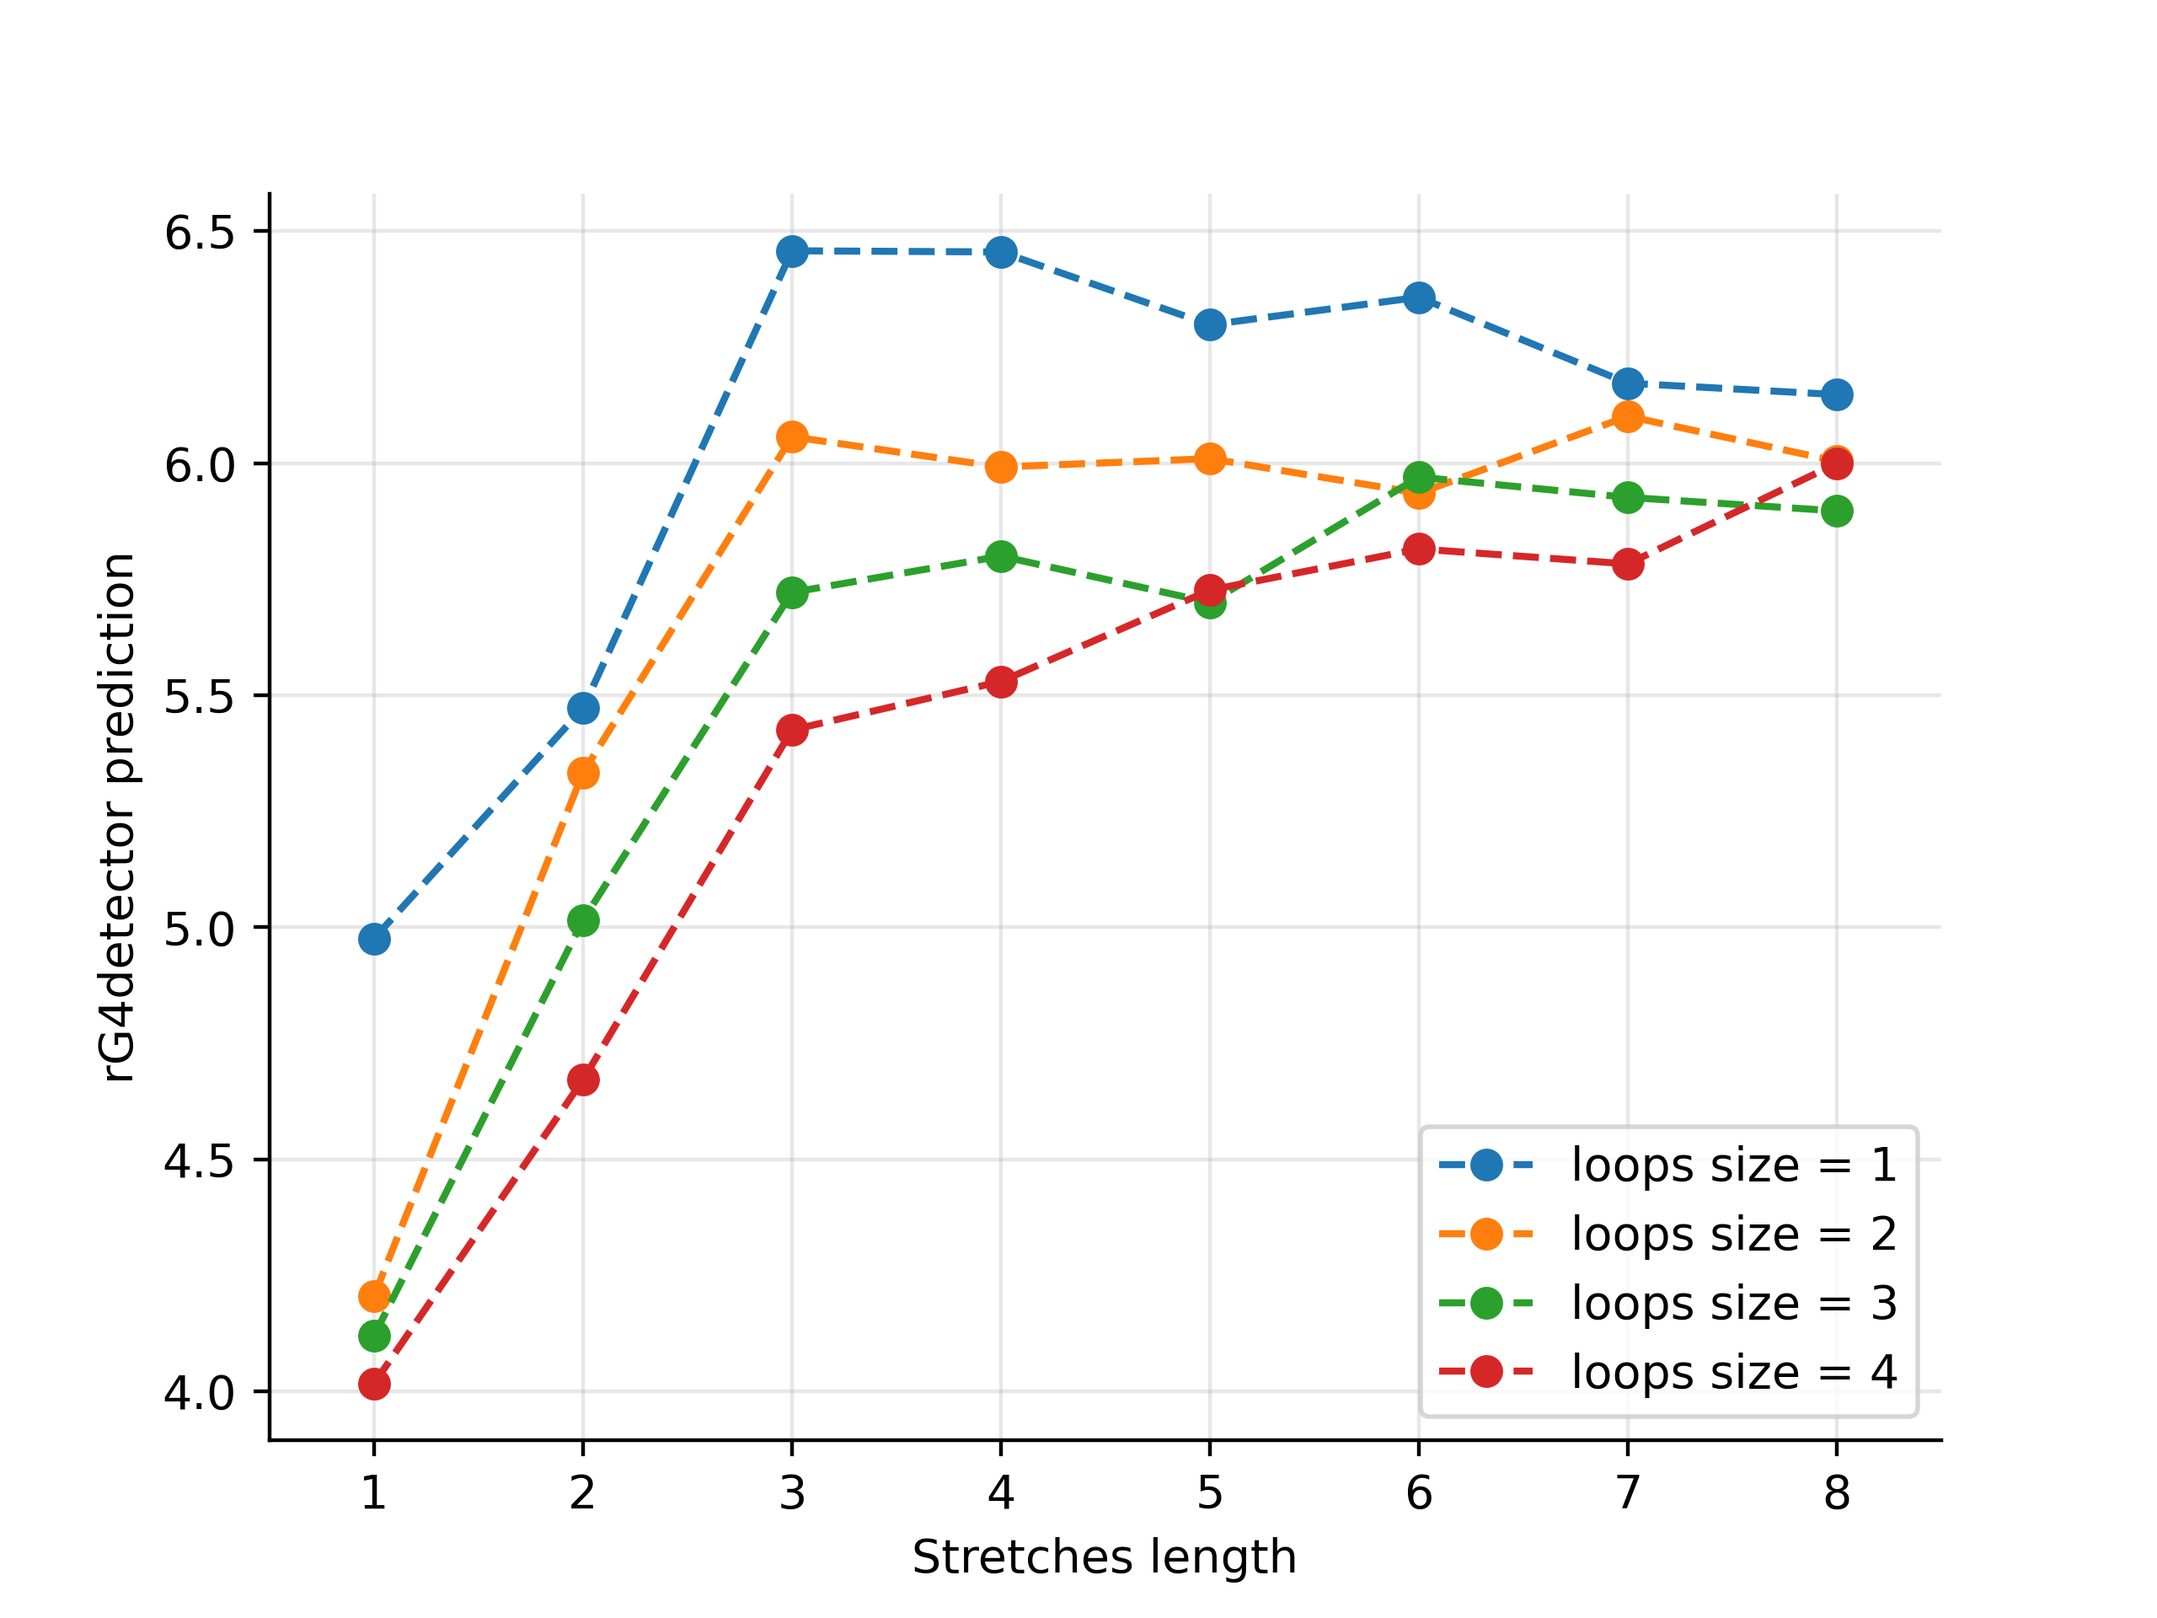
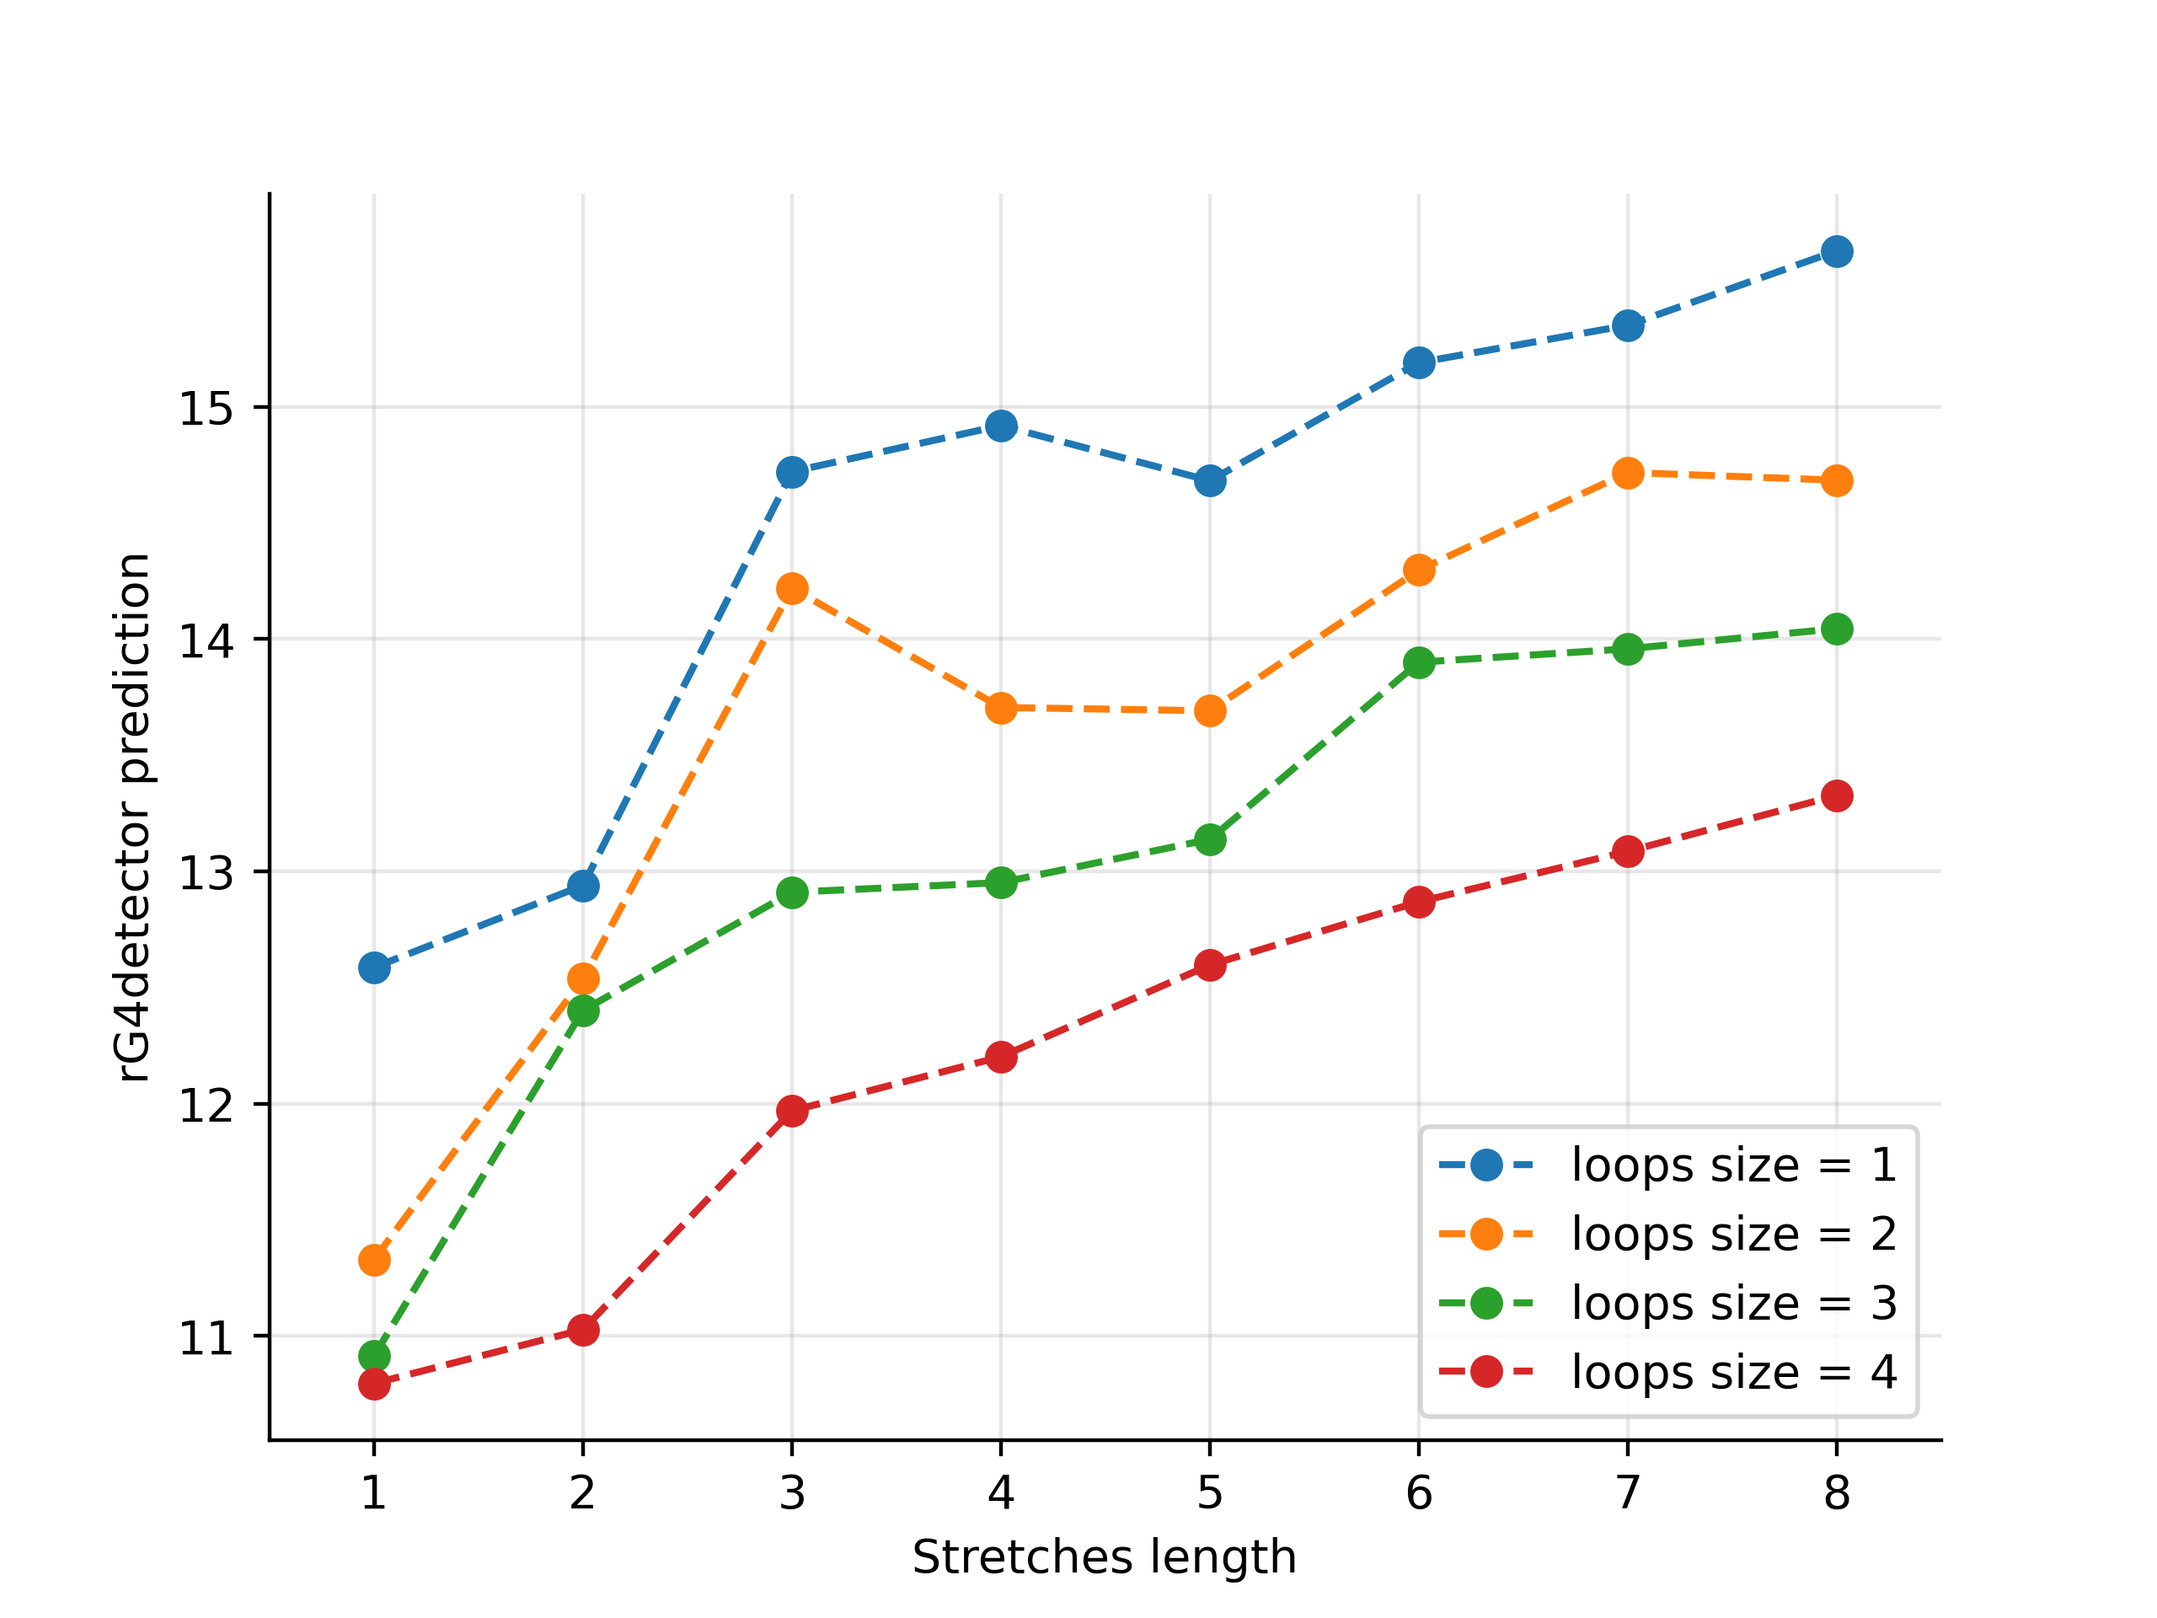
...

diff --git a/code/set_g4rna_data.py b/code/set_g4rna_data.py
@@ -1,14 +1,14 @@
 import pandas as pd
 import re
-from Bio import pairwise2, SeqIO, Seq
+from Bio import pairwise2, SeqIO
 import os
 from PARAMETERS import *
 import sys
 from time import time
 
-
-GAP3 = (DATA_SIZE - 30)//2
-GAP5 = DATA_SIZE - GAP3 - 11
+min_g4_size = len("GGNGGNGGNGG")
+GAP3 = DATA_SIZE - min_g4_size
+GAP5 = DATA_SIZE - min_g4_size
 MATCH_THRESHOLD = 0.85
 
 
@@ -17,27 +17,18 @@ def set_hg38_locations(data, data_loc, ref_gen):
     no_hit_counter = 0
     hit_counter = 0
     ignore_list = []
-    t = time()
     align = 0
-    search = 0
-    # ref_gen = "../../rg4detector_dev/big_files/chr1.fa"
-    data_df = pd.read_csv(data, delimiter="\t").dropna()
+    data_df = pd.read_csv(data).dropna()
     genome_dict = SeqIO.to_dict(SeqIO.parse(ref_gen, "fasta"))
     for idx, row in data_df.iterrows():
-        if (idx+1) % 50 == 0:
-            print(f"Done {idx+1}/{len(data_df)}, {round(time()-t)} seconds")
-            t = time()
         start = int(row["Start"]) - extra
         end = int(row["Length"]) + int(row["Start"]) + extra
         chrom = row["Chromosome"]
         seq = row["Sequence"].upper().replace("U", "T")
-        # if chrom != "chr1":
-        #     continue
         rg4_seq_range = genome_dict[chrom].seq[start:end]
 
         if row["Strand"] == "-":
             rg4_seq_range = rg4_seq_range.reverse_complement()
-
 
         seq_match = re.search(seq, str(rg4_seq_range))
         if seq_match:
@@ -55,7 +46,6 @@ def set_hg38_locations(data, data_loc, ref_gen):
         no_hit_counter += 1
         ignore_list.append(idx)
 
-    print(f"search={search}, align={align}")
     print(f"HIT = {hit_counter}")
     print(f"NO-HIT = {no_hit_counter}")
     data_df.drop(ignore_list, inplace=True)
@@ -100,7 +90,7 @@ def get_chrom_data(chrom_data):
 
 
 def filter_data(input_file, csv_dest):
-    data = pd.read_csv(input_file)#, delimiter="\t")
+    data = pd.read_csv(input_file)
     chrom_list = []
     for i in range(1, 23):
         chrom_list.append(f'chr{i}')
@@ -138,65 +128,21 @@ def csv2bed(csv_path, bed_dest, gap3=GAP3, gap5=GAP5):
     bed_file.close()
 
 
-def find_g4rna_seq(raw_csv_path, seq_dest, csv_dest):
-    no_hit_counter = 0
-    hit_counter = 0
-    ignore_list = []
-    seq_file = open(seq_dest + ".txt")
-    seq_list = [s.upper() for s in seq_file.read().splitlines()]
-    g4rna_df = pd.read_csv(raw_csv_path)
-    g4rna_list = g4rna_df["sequence"].to_list()
-    for idx, (seq, g4rna_seq) in enumerate(zip(seq_list, g4rna_list)):
-        seq_match = re.search(g4rna_seq, seq)
-        if seq_match is None:
-            alignments = pairwise2.align.localms(g4rna_seq, seq, 1, -.8, -.8, -.8)
-            if len(alignments) > 0 and alignments[0].score / len(g4rna_seq) > MATCH_THRESHOLD:
-                hit_counter += 1
-            else:
-                no_hit_counter += 1
-                ignore_list.append(idx)
-        else:
-            hit_counter += 1
-
-
-    print(f"HIT = {hit_counter}")
-    print(f"NO-HIT = {no_hit_counter}")
-    g4rna_df.drop(ignore_list, inplace=True)
-    g4rna_df.to_csv(csv_dest, index=False)
-
-
 def main(g4rna_dir, ref_gen):
     source = g4rna_dir + "/data.csv"
     data_loc = g4rna_dir + "/data_loc.csv"
-    raw_csv_dest = g4rna_dir + "/g4rna_filtered_data_raw.csv"
-    csv_dest = g4rna_dir + "/g4rna_filtered_data.csv"
-    raw_bed_dest = g4rna_dir + "/bed_raw_data.bed"
-    bed_dest = g4rna_dir + "/bed_raw_data.bed"
-    bed_dest_no_gap = g4rna_dir + "/bed_raw_data_no_gap.bed"
-    seq_dest = g4rna_dir + "/seq"
-    seq_dest_no_gap = g4rna_dir + "/seq_no_gap"
-    raw_seq_dest = g4rna_dir + "/raw_seq"
+    csv_dest = g4rna_dir + "/g4rna_data.csv"
+    bed_dest = g4rna_dir + "/data.bed"
+    seq_dest = g4rna_dir + "/g4rna_seq"
     bedtools_script_path = g4rna_dir + "/bed2seq.sh"
 
     # set correct locations
-    # set_hg38_locations(source, data_loc, ref_gen)
+    set_hg38_locations(source, data_loc, ref_gen)
     # filter overlapping sequences
     filter_data(data_loc, csv_dest)
     csv2bed(csv_dest, bed_dest)
-    # crete raw sequences files
+    # create  sequences files
     os.system(f"bash {bedtools_script_path} {ref_gen} {bed_dest} {seq_dest}")
-    csv2bed(csv_dest, bed_dest, gap3=0, gap5=0)
-    os.system(f"bash {bedtools_script_path} {ref_gen} {bed_dest_no_gap} {seq_dest_no_gap}")
-
-    # take only sequences that match the genome coordinate
-    # find_g4rna_seq(raw_csv_dest, raw_seq_dest, csv_dest)
-    # # crate update bed file
-    # csv2bed(csv_dest, bed_dest)
-    # # crate update bed file no gaps
-    # csv2bed(csv_dest, bed_dest_no_gap, gap3=0, gap5=0)
-    # # crete sequences files
-    # os.system(f"bash {bedtools_script_path} {ref_gen} {bed_dest} {seq_dest}")
-    # os.system(f"bash {bedtools_script_path} {ref_gen} {bed_dest_no_gap} {seq_dest_no_gap}")
 
 
 if __name__ == "__main__":

diff --git a/code/G4RNA_classification.py b/code/G4RNA_classification.py
@@ -1,70 +1,63 @@
 import sys
 import time
 from tensorflow.keras.models import load_model
-from utils import AUC_Score, one_hot_enc, plot_auc_curve, pred_all_sub_seq
+from utils import *
 import pandas as pd
-import numpy as np
 from sklearn.metrics import roc_curve, auc
 from PARAMETERS import *
 
-
+w = 80
 def get_g4rna_data(g4rna_dir):
-    g4rna_data = pd.read_csv(g4rna_dir + "/data_2_fil.csv")
+    g4rna_data = pd.read_csv(g4rna_dir + "/g4rna_data.csv")
     print(f"Data size = {len(g4rna_data)}")
     # get x
-    # data_file = open(g4rna_dir + "/seq.txt")
-    data = ["N"*44 + d.upper().replace("U", "T") + "N"*25 for d in g4rna_data["Sequence"]]
-    # data = [d.upper() for d in data_file.read().splitlines()]
-    x = np.array(list(map(one_hot_enc, data)), dtype=object)
-    # get y
-    # y = pd.read_csv(g4rna_dir + "/g4rna_filtered_data.csv", usecols=["label"])
-    y = g4rna_data["G4"]
-    return x, y
+    data_file = open(g4rna_dir + "/g4rna_seq.txt")
+    data = [d.upper() for d in data_file.read().splitlines()]
+    y = g4rna_data["label"]
+    return data, y
 
 
 def main(model, g4rna_dir):
     t1 = time.time()
-    prediction = {"rG4detector": [], "G4NN": [], "cGcC": [], "G4H": []}
+    prediction = {'cGcC': [], 'G4H': [], 'G4NN': []}
     scores = {}
 
     # get data
     x, y = get_g4rna_data(g4rna_dir)
 
     # pred rg4detector
-    for one_hot_mat in x:
-        prediction["rG4detector"].append(max(pred_all_sub_seq(one_hot_mat, model)))
+    prediction["rG4detector"] = make_all_seqs_prediction(model=model, seqs=x, max_pred=True)
 
     # pred screener
-    screener_df = pd.read_csv(g4rna_dir + "/screener_preds.80", delimiter="\t")
+    screener_df = pd.read_csv(g4rna_dir + f"screener_preds.{w}", delimiter="\t")
     seqs_ids = screener_df["description"].unique()
     for seq_id in seqs_ids:
         seq_preds = screener_df[screener_df["description"] == seq_id]
-        for method in ["G4NN", "cGcC", "G4H"]:
+        for method in METHODS_LIST:
             prediction[method].append(seq_preds[method].max())
 
     for method in prediction.keys():
         fpr, tpr, _ = roc_curve(y, prediction[method])
-
         roc_auc = auc(fpr, tpr)
         print(f"{method} roc_auc = {roc_auc}")
         scores[method] = AUC_Score(method=method, y=tpr, x=fpr, auc=round(roc_auc, 2))
 
 
     # # TODO - remove
-    # if PLOT:
-    #     plot_auc_curve(scores, title="G4RNA prediction", dest=g4rna_dir + "/g4rna_roc_plot", plot=True)
-    # print(f"Execution time = {round((time.time()-t1))} seconds")
-    #
-    # # save data
-    # for m in scores:
-    #     with open(g4rna_dir + f"/results/{m}_g4rna_roc.csv", "w") as f:
-    #         f.write(f"True positive rate,False positive rate\n")
-    #         for tpr, fpr in zip(scores[m].y, scores[m].x):
-    #             f.write(f"{tpr},{fpr}\n")
-    # with open(g4rna_dir + f"/results/G4RNA_AUC.csv", "w") as f:
-    #     f.write(f",G4RNA AUC score\n")
-    #     for m in scores:
-    #         f.write(f"{m},{scores[m].auc}\n")
+    if PLOT:
+        plot_auc_curve(scores, title="G4RNA prediction", dest=g4rna_dir + "/g4rna_roc_plot", plot=True)
+    print(f"Execution time = {round((time.time()-t1))} seconds")
+
+    # save data
+    for m in scores:
+        with open(g4rna_dir + f"/results/{w}/{m}_g4rna_roc.csv", "w") as f:
+            f.write(f"True positive rate,False positive rate\n")
+            for tpr, fpr in zip(scores[m].y, scores[m].x):
+                f.write(f"{tpr},{fpr}\n")
+    with open(g4rna_dir + f"/results/G4RNA_AUC.csv", "w") as f:
+        f.write(f",G4RNA AUC score\n")
+        for m in scores:
+            f.write(f"{m},{scores[m].auc}\n")
 
 
 if __name__ == "__main__":

diff --git a/code/calculate_correlation.py b/code/calculate_correlation.py
@@ -22,11 +22,11 @@ def get_rG4detector_human_corr(model, data_path):
     sp_corr = spearmanr(preds, yTest)[0]
     print(f"rG4detector Spearman correlation = {sp_corr}")
     # # TODO
-    # plt.scatter(yTest, preds, 9)
-    # plt.xlabel("Measured RSR ratio")
-    # plt.ylabel("Predicted RSR ratio")
-    # plt.savefig("Human_predictions_scatter_plot")
-    # plt.show()
+    plt.scatter(yTest, preds, 9)
+    plt.xlabel("Measured RSR ratio")
+    plt.ylabel("Predicted RSR ratio")
+    plt.savefig("Human_predictions_scatter_plot")
+    plt.show()
     return corr
 
 
@@ -43,6 +43,8 @@ def get_rG4detector_mouse_corr(model, mouse_df):
     pred = pred.reshape(len(pred))
     log_rsr = np.log(mouse_df["label"])
     corr = pearsonr(pred, log_rsr)
+    sp_corr = spearmanr(pred, log_rsr)[0]
+    print(f"rG4detector Spearman correlation = {sp_corr}")
     return round(corr[0], 3)
 
 
@@ -86,7 +88,7 @@ def calculate_mouse_correlation(model, data_path, screener_preds):
         screener_preds = SCREENER_PATH + "/output_data/mouse_test_predictions.csv"
     mouse_df = pd.read_csv(data_path + "mouse_data.csv", names=["sequence", "label"], header=None, delimiter="\t")
 
-    scores = get_screener_scores(screener_preds=screener_preds, y=np.log(mouse_df["label"]))
+    scores = get_screener_scores(screener_preds=screener_preds, y=np.log(mouse_df["label"].to_numpy()))
     scores["rG4detector"] = get_rG4detector_mouse_corr(model, mouse_df)
     for m in scores.keys():
         print(f"{m} Pearson correlation = {round(scores[m],3)}")
@@ -110,7 +112,7 @@ if __name__ == "__main__":
         rG4detector.append(load_model(f"{args.model_path}/model_{i}.h5"))
 
     calculate_human_correlation(rG4detector, args.data_dir_path + "/human/", args.screener_preds)
-    # calculate_mouse_correlation(rG4detector, args.data_dir_path + "/mouse/", args.screener_preds)
+    calculate_mouse_correlation(rG4detector, args.data_dir_path + "/mouse/", args.screener_preds)
 
 
 

diff --git a/code/detection.py b/code/detection.py
@@ -71,20 +71,20 @@ def detect_rg4(model, rg4_seeker_hits, gencode_path, screener_path, plot_dest, s
     
     print(f"Execution time = {round((time.time()-t1)/60, 2)} minutes")
     # TODO - remove
-    # print("Plotting results")
-    # for m in scores:
-    #     if len(scores[m].precision) > 1000000:
-    #         scores[m].precision, scores[m].recall = scores[m].precision[::10], scores[m].recall[::10]
-    #
-    # plot_scores(scores, rg4_all_exp_seq, plot_dest)
-    # # save data
-    # print("Saving results")
-    # for m in scores:
-    #     with open(plot_dest + f"/results/{m}_detection_aupr.csv", "w") as f:
-    #         f.write(f"precision,recall\n")
-    #
-    #         for precision, recall in zip(scores[m].precision, scores[m].recall):
-    #             f.write(f"{precision},{recall}\n")
+    print("Plotting results")
+    for m in scores:
+        if len(scores[m].precision) > 1000000:
+            scores[m].precision, scores[m].recall = scores[m].precision[::10], scores[m].recall[::10]
+
+    plot_scores(scores, rg4_all_exp_seq, plot_dest)
+    # save data
+    print("Saving results")
+    for m in scores:
+        with open(plot_dest + f"/results/{m}_detection_aupr.csv", "w") as f:
+            f.write(f"precision,recall\n")
+
+            for precision, recall in zip(scores[m].precision, scores[m].recall):
+                f.write(f"{precision},{recall}\n")
 
 
 

diff --git a/code/interpretation.py b/code/interpretation.py
@@ -276,12 +276,12 @@ def stretches_length_test(model, data_size, output):
 
 def main(model, output):
     data_size = get_input_size(model)
-    # loop_length_test(model, data_size, output)
-    # loop_length_test2(model, data_size, output)
-    # mutation_effect(model, data_size, output)
-    # seq = "CTGCTGCCGCTACTGCGGAGTAGCTGCTTCCCTTCCTCCTCTCCCGGCGGCGGCGGCGGCAGCGGCGGAGGAGGAGGAGGAGGGGACCCGGGCGCAGAGAGCCG" \
-    #       "GCCGGCGGCGCAGTTGCAGCGCGGAG"
-    # mutation_map_test(model, data_size, output, seq)
+    loop_length_test(model, data_size, output)
+    loop_length_test2(model, data_size, output)
+    mutation_effect(model, data_size, output)
+    seq = "CTGCTGCCGCTACTGCGGAGTAGCTGCTTCCCTTCCTCCTCTCCCGGCGGCGGCGGCGGCAGCGGCGGAGGAGGAGGAGGAGGGGACCCGGGCGCAGAGAGCCG" \
+          "GCCGGCGGCGCAGTTGCAGCGCGGAG"
+    mutation_map_test(model, data_size, output, seq)
     stretches_length_test(model, data_size, output)
 
 

diff --git a/code/PARAMETERS.py b/code/PARAMETERS.py
@@ -9,7 +9,7 @@ HUMAN_V40_TRANSCRIPTOME_PATH = GENOMES_FILE + "gencode.v40.transcripts.fa"
 
 SCREENER_DETECTION_PATH = SCREENER_PATH + "detection/"
 SCREENER_DETECTION_PREDICTION_PATH = SCREENER_DETECTION_PATH + "screener_predictions.pkl"
-ENSEMBLE_SIZE = 11
+ENSEMBLE_SIZE = 1
 NUM_OF_ENSEMBLE_ITERATIONS = 50
 MOUSE_PATH = "independent_datasets/mouse/"
 MOUSE_DATA_PATH = MOUSE_PATH + "Table_S1_mouse.csv"
